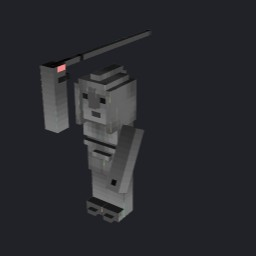
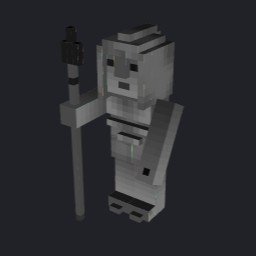
Rename Items: fix the gargoyle's spear rotation in its .glb
export_models.py ignores the newer {x,y,z,origin} element rotation, so the
three spear parts were unrotated. Patched from statue_1.json and re-rendered.

Changed region(s): [[0.1562, 0.0938, 0.7188, 0.875], [0.2812, 0.1562, 0.3125, 0.1875]]

diff --git a/_dev/scripts/fix-glb-rotations.js b/_dev/scripts/fix-glb-rotations.js
@@ -1,0 +1,47 @@
+// export_models.py skips the newer Minecraft element rotation {"x":..,"y":..,"z":..,"origin":[..]} (it only does
+// {"angle","axis"}), so those parts come out unrotated. This rotates them in an exported .glb, using the source model JSON.
+// Usage: node _dev/scripts/fix-glb-rotations.js <model.json> <model.glb>
+// shortcut: x-axis only (all the gargoyle needs); add y/z when a model uses them.
+const fs = require('fs');
+const [jsonPath, glbPath] = process.argv.slice(2);
+const model = JSON.parse(fs.readFileSync(jsonPath, 'utf8'));
+const glb = fs.readFileSync(glbPath);
+const jsonLen = glb.readUInt32LE(12), bin = 20 + jsonLen + 8;
+const gltf = JSON.parse(glb.slice(20, 20 + jsonLen));
+const prim = gltf.meshes[0].primitives[0];
+const acc = i => gltf.accessors[i], off = a => bin + (gltf.bufferViews[a.bufferView].byteOffset || 0) + (a.byteOffset || 0);
+const pos = acc(prim.attributes.POSITION), nrm = acc(prim.attributes.NORMAL);
+if (pos.count !== model.elements.length * 24) throw new Error('vertex count does not match 24 per element');
+
+// the exporter centres x and z on the elements' bounding box and divides by 16 (checked against the arm's 27.5° rotation)
+const lo = [Infinity, Infinity, Infinity], hi = [-Infinity, -Infinity, -Infinity];
+model.elements.forEach(e => [0, 2].forEach(k => { lo[k] = Math.min(lo[k], e.from[k], e.to[k]); hi[k] = Math.max(hi[k], e.from[k], e.to[k]); }));
+const cx = (lo[0] + hi[0]) / 2, cz = (lo[2] + hi[2]) / 2;
+
+let fixed = 0;
+model.elements.forEach((e, n) => {
+    const r = e.rotation;
+    if (!r || r.angle !== undefined || !(r.x || r.y || r.z)) return;
+    if (r.y || r.z) throw new Error(`element ${n}: y/z rotation not supported yet`);
+    const a = r.x * Math.PI / 180, c = Math.cos(a), s = Math.sin(a);
+    const rot = (y, z) => [y * c - z * s, y * s + z * c]; // same direction as {"angle","axis":"x"}
+    for (let v = n * 24; v < n * 24 + 24; v++) {
+        const p = off(pos) + v * 12, q = off(nrm) + v * 12;
+        const y = glb.readFloatLE(p + 4) * 16 - r.origin[1], z = glb.readFloatLE(p + 8) * 16 + cz - r.origin[2];
+        const [ny, nz] = rot(y, z);
+        glb.writeFloatLE((ny + r.origin[1]) / 16, p + 4); glb.writeFloatLE((nz + r.origin[2] - cz) / 16, p + 8);
+        const [my, mz] = rot(glb.readFloatLE(q + 4), glb.readFloatLE(q + 8));
+        glb.writeFloatLE(my, q + 4); glb.writeFloatLE(mz, q + 8);
+    }
+    fixed++;
+});
+// refresh the position bounds the glTF declares
+const mn = [Infinity, Infinity, Infinity], mx = [-Infinity, -Infinity, -Infinity];
+for (let v = 0; v < pos.count; v++) for (let k = 0; k < 3; k++) { const x = glb.readFloatLE(off(pos) + v * 12 + k * 4); mn[k] = Math.min(mn[k], x); mx[k] = Math.max(mx[k], x); }
+pos.min = mn; pos.max = mx;
+let json = Buffer.from(JSON.stringify(gltf)); json = Buffer.concat([json, Buffer.alloc((4 - json.length % 4) % 4, 0x20)]);
+const rest = glb.slice(20 + jsonLen);
+const head = Buffer.alloc(20); head.write('glTF', 0); head.writeUInt32LE(2, 4); head.writeUInt32LE(20 + json.length + rest.length, 8);
+head.writeUInt32LE(json.length, 12); head.write('JSON', 16);
+fs.writeFileSync(glbPath, Buffer.concat([head, json, rest]));
+console.log(`rotated ${fixed} element(s); centre x ${cx}, z ${cz}`);
